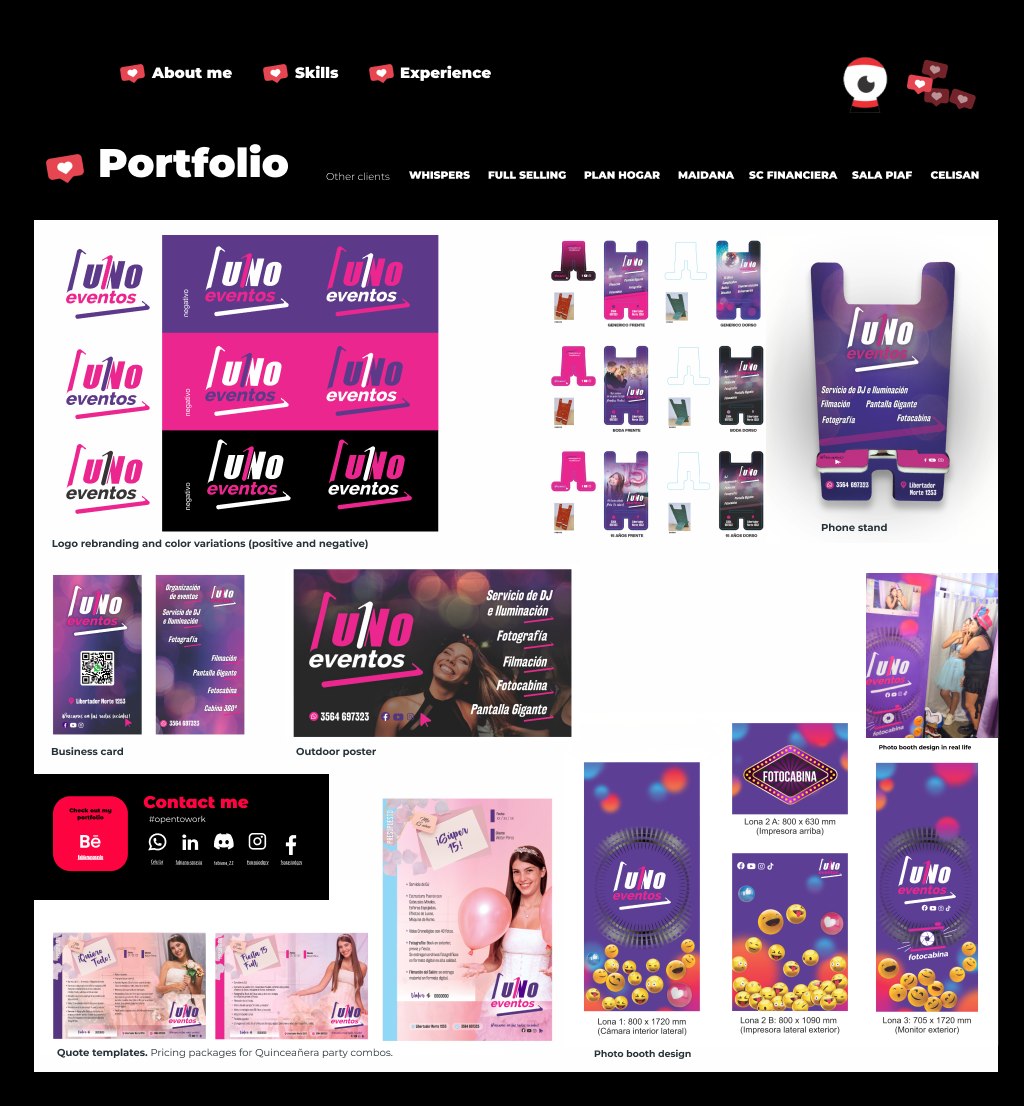
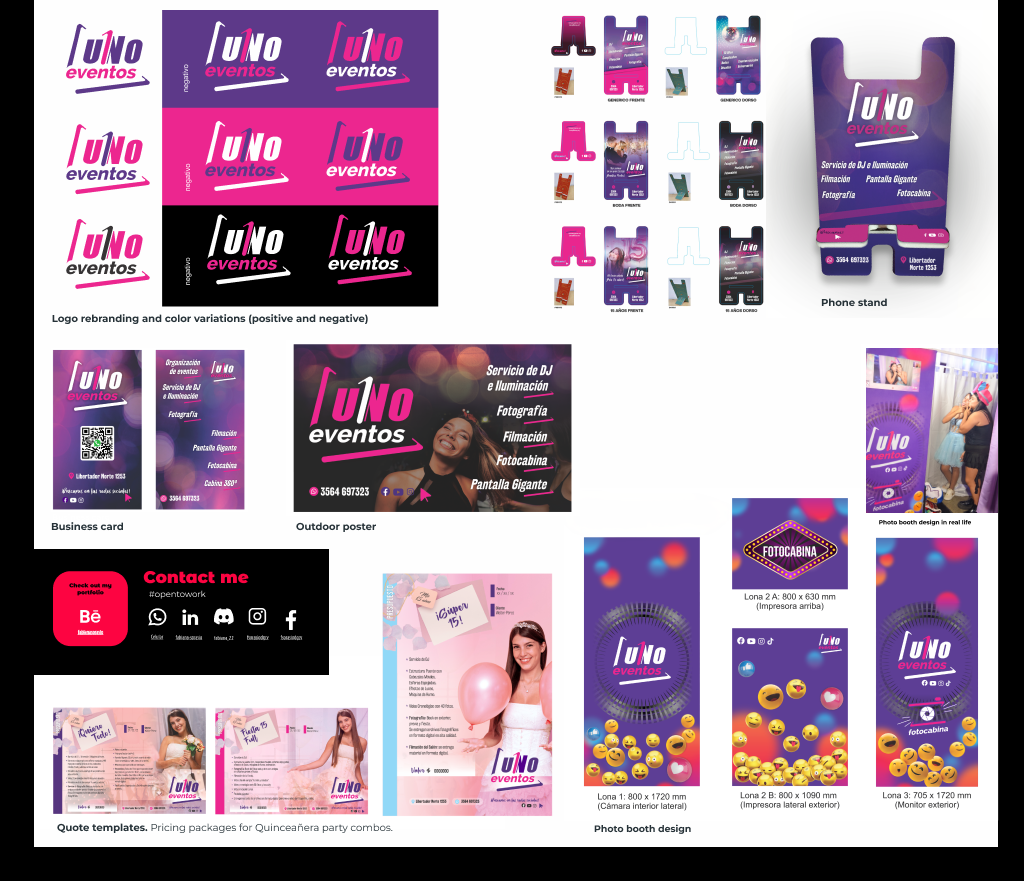
fix: elimina la duplicacion de menu, titulo y contacto en las fichas de portfolio
Recorta las capturas de cada proyecto para sacar el header y la barra de
contacto que Figma dibujaba dentro de la propia imagen, y saca la fila
"Other clients" de cada ficha individual (esa lista ya vive una sola vez
en portfolio.html).

diff --git a/portfolio/sc-financiera.html b/portfolio/sc-financiera.html
@@ -37,19 +37,7 @@
     <img src="../img/portfolio/sc-financiera.png" alt="SC Financiera — case study">
   </div>
 
-  <p style="color:var(--text-faint);font-size:10px;margin-top:16px;" data-i18n="portfolio.other">Otros clientes</p>
-  <nav class="case-nav" aria-label="Otros proyectos del portfolio">
-        <a href="whispers.html" class="">WHISPERS</a>
-        <a href="fullselling.html" class="">FULL SELLING</a>
-        <a href="maidana.html" class="">MAIDANA</a>
-        <a href="uno-eventos.html" class="">UNO EVENTOS</a>
-        <a href="sc-financiera.html" class="active">SC FINANCIERA</a>
-        <a href="plan-hogar.html" class="">PLAN HOGAR</a>
-        <a href="sala-piaf.html" class="">SALA PIAF</a>
-        <a href="celisan.html" class="">CELISAN</a>
-  </nav>
-
-  <a class="case-back" href="../portfolio.html" data-i18n="case.back">← Volver al portfolio</a>
+<a class="case-back" href="../portfolio.html" data-i18n="case.back">← Volver al portfolio</a>
 
   <div class="contact-bar">
     <div class="contact-left">

diff --git a/portfolio/fullselling.html b/portfolio/fullselling.html
@@ -37,19 +37,7 @@
     <img src="../img/portfolio/fullselling.png" alt="Full Selling — case study">
   </div>
 
-  <p style="color:var(--text-faint);font-size:10px;margin-top:16px;" data-i18n="portfolio.other">Otros clientes</p>
-  <nav class="case-nav" aria-label="Otros proyectos del portfolio">
-        <a href="whispers.html" class="">WHISPERS</a>
-        <a href="fullselling.html" class="active">FULL SELLING</a>
-        <a href="maidana.html" class="">MAIDANA</a>
-        <a href="uno-eventos.html" class="">UNO EVENTOS</a>
-        <a href="sc-financiera.html" class="">SC FINANCIERA</a>
-        <a href="plan-hogar.html" class="">PLAN HOGAR</a>
-        <a href="sala-piaf.html" class="">SALA PIAF</a>
-        <a href="celisan.html" class="">CELISAN</a>
-  </nav>
-
-  <a class="case-back" href="../portfolio.html" data-i18n="case.back">← Volver al portfolio</a>
+<a class="case-back" href="../portfolio.html" data-i18n="case.back">← Volver al portfolio</a>
 
   <div class="contact-bar">
     <div class="contact-left">

diff --git a/portfolio/uno-eventos.html b/portfolio/uno-eventos.html
@@ -37,19 +37,7 @@
     <img src="../img/portfolio/uno-eventos.png" alt="Uno Eventos — case study">
   </div>
 
-  <p style="color:var(--text-faint);font-size:10px;margin-top:16px;" data-i18n="portfolio.other">Otros clientes</p>
-  <nav class="case-nav" aria-label="Otros proyectos del portfolio">
-        <a href="whispers.html" class="">WHISPERS</a>
-        <a href="fullselling.html" class="">FULL SELLING</a>
-        <a href="maidana.html" class="">MAIDANA</a>
-        <a href="uno-eventos.html" class="active">UNO EVENTOS</a>
-        <a href="sc-financiera.html" class="">SC FINANCIERA</a>
-        <a href="plan-hogar.html" class="">PLAN HOGAR</a>
-        <a href="sala-piaf.html" class="">SALA PIAF</a>
-        <a href="celisan.html" class="">CELISAN</a>
-  </nav>
-
-  <a class="case-back" href="../portfolio.html" data-i18n="case.back">← Volver al portfolio</a>
+<a class="case-back" href="../portfolio.html" data-i18n="case.back">← Volver al portfolio</a>
 
   <div class="contact-bar">
     <div class="contact-left">

diff --git a/portfolio/plan-hogar.html b/portfolio/plan-hogar.html
@@ -37,19 +37,7 @@
     <img src="../img/portfolio/plan-hogar.png" alt="Plan Hogar — case study">
   </div>
 
-  <p style="color:var(--text-faint);font-size:10px;margin-top:16px;" data-i18n="portfolio.other">Otros clientes</p>
-  <nav class="case-nav" aria-label="Otros proyectos del portfolio">
-        <a href="whispers.html" class="">WHISPERS</a>
-        <a href="fullselling.html" class="">FULL SELLING</a>
-        <a href="maidana.html" class="">MAIDANA</a>
-        <a href="uno-eventos.html" class="">UNO EVENTOS</a>
-        <a href="sc-financiera.html" class="">SC FINANCIERA</a>
-        <a href="plan-hogar.html" class="active">PLAN HOGAR</a>
-        <a href="sala-piaf.html" class="">SALA PIAF</a>
-        <a href="celisan.html" class="">CELISAN</a>
-  </nav>
-
-  <a class="case-back" href="../portfolio.html" data-i18n="case.back">← Volver al portfolio</a>
+<a class="case-back" href="../portfolio.html" data-i18n="case.back">← Volver al portfolio</a>
 
   <div class="contact-bar">
     <div class="contact-left">

diff --git a/portfolio/sala-piaf.html b/portfolio/sala-piaf.html
@@ -37,19 +37,7 @@
     <img src="../img/portfolio/sala-piaf.png" alt="Sala Piaf — case study">
   </div>
 
-  <p style="color:var(--text-faint);font-size:10px;margin-top:16px;" data-i18n="portfolio.other">Otros clientes</p>
-  <nav class="case-nav" aria-label="Otros proyectos del portfolio">
-        <a href="whispers.html" class="">WHISPERS</a>
-        <a href="fullselling.html" class="">FULL SELLING</a>
-        <a href="maidana.html" class="">MAIDANA</a>
-        <a href="uno-eventos.html" class="">UNO EVENTOS</a>
-        <a href="sc-financiera.html" class="">SC FINANCIERA</a>
-        <a href="plan-hogar.html" class="">PLAN HOGAR</a>
-        <a href="sala-piaf.html" class="active">SALA PIAF</a>
-        <a href="celisan.html" class="">CELISAN</a>
-  </nav>
-
-  <a class="case-back" href="../portfolio.html" data-i18n="case.back">← Volver al portfolio</a>
+<a class="case-back" href="../portfolio.html" data-i18n="case.back">← Volver al portfolio</a>
 
   <div class="contact-bar">
     <div class="contact-left">

diff --git a/portfolio/whispers.html b/portfolio/whispers.html
@@ -37,19 +37,7 @@
     <img src="../img/portfolio/whispers.png" alt="Whispers — case study">
   </div>
 
-  <p style="color:var(--text-faint);font-size:10px;margin-top:16px;" data-i18n="portfolio.other">Otros clientes</p>
-  <nav class="case-nav" aria-label="Otros proyectos del portfolio">
-        <a href="whispers.html" class="active">WHISPERS</a>
-        <a href="fullselling.html" class="">FULL SELLING</a>
-        <a href="maidana.html" class="">MAIDANA</a>
-        <a href="uno-eventos.html" class="">UNO EVENTOS</a>
-        <a href="sc-financiera.html" class="">SC FINANCIERA</a>
-        <a href="plan-hogar.html" class="">PLAN HOGAR</a>
-        <a href="sala-piaf.html" class="">SALA PIAF</a>
-        <a href="celisan.html" class="">CELISAN</a>
-  </nav>
-
-  <a class="case-back" href="../portfolio.html" data-i18n="case.back">← Volver al portfolio</a>
+<a class="case-back" href="../portfolio.html" data-i18n="case.back">← Volver al portfolio</a>
 
   <div class="contact-bar">
     <div class="contact-left">

diff --git a/portfolio/celisan.html b/portfolio/celisan.html
@@ -37,19 +37,7 @@
     <img src="../img/portfolio/celisan.png" alt="Celisan — case study">
   </div>
 
-  <p style="color:var(--text-faint);font-size:10px;margin-top:16px;" data-i18n="portfolio.other">Otros clientes</p>
-  <nav class="case-nav" aria-label="Otros proyectos del portfolio">
-        <a href="whispers.html" class="">WHISPERS</a>
-        <a href="fullselling.html" class="">FULL SELLING</a>
-        <a href="maidana.html" class="">MAIDANA</a>
-        <a href="uno-eventos.html" class="">UNO EVENTOS</a>
-        <a href="sc-financiera.html" class="">SC FINANCIERA</a>
-        <a href="plan-hogar.html" class="">PLAN HOGAR</a>
-        <a href="sala-piaf.html" class="">SALA PIAF</a>
-        <a href="celisan.html" class="active">CELISAN</a>
-  </nav>
-
-  <a class="case-back" href="../portfolio.html" data-i18n="case.back">← Volver al portfolio</a>
+<a class="case-back" href="../portfolio.html" data-i18n="case.back">← Volver al portfolio</a>
 
   <div class="contact-bar">
     <div class="contact-left">

diff --git a/portfolio/maidana.html b/portfolio/maidana.html
@@ -37,19 +37,7 @@
     <img src="../img/portfolio/maidana.png" alt="Maidana — case study">
   </div>
 
-  <p style="color:var(--text-faint);font-size:10px;margin-top:16px;" data-i18n="portfolio.other">Otros clientes</p>
-  <nav class="case-nav" aria-label="Otros proyectos del portfolio">
-        <a href="whispers.html" class="">WHISPERS</a>
-        <a href="fullselling.html" class="">FULL SELLING</a>
-        <a href="maidana.html" class="active">MAIDANA</a>
-        <a href="uno-eventos.html" class="">UNO EVENTOS</a>
-        <a href="sc-financiera.html" class="">SC FINANCIERA</a>
-        <a href="plan-hogar.html" class="">PLAN HOGAR</a>
-        <a href="sala-piaf.html" class="">SALA PIAF</a>
-        <a href="celisan.html" class="">CELISAN</a>
-  </nav>
-
-  <a class="case-back" href="../portfolio.html" data-i18n="case.back">← Volver al portfolio</a>
+<a class="case-back" href="../portfolio.html" data-i18n="case.back">← Volver al portfolio</a>
 
   <div class="contact-bar">
     <div class="contact-left">

diff --git a/css/style.css b/css/style.css
@@ -318,6 +318,13 @@ img { max-width: 100%; display: block; }
   opacity: 0.95;
 }
 
+.logo-mark-img {
+  position: absolute;
+  top: 4px;
+  right: 150px;
+  width: 46px;
+}
+
 .cv-figure-img {
   position: absolute;
   right: 0;
@@ -550,6 +557,7 @@ img { max-width: 100%; display: block; }
   .hero-nav-link { font-size: 21px; }
   .hearts-cluster-img { display: none; }
   .cv-figure-img { display: none; }
+  .logo-mark-img { display: none; }
 
   .page { padding-bottom: 140px; }
   .page-title { font-size: 30px; }

diff --git a/index.html b/index.html
@@ -29,6 +29,7 @@
     </div>
 
     <div class="hero-right">
+      <img class="logo-mark-img" src="img/logo-mark.png" alt="">
       <img class="hearts-cluster-img" src="img/hearts-cluster.png" alt="">
       <img class="cv-figure-img" src="img/cv-icon.png" alt="">
 
